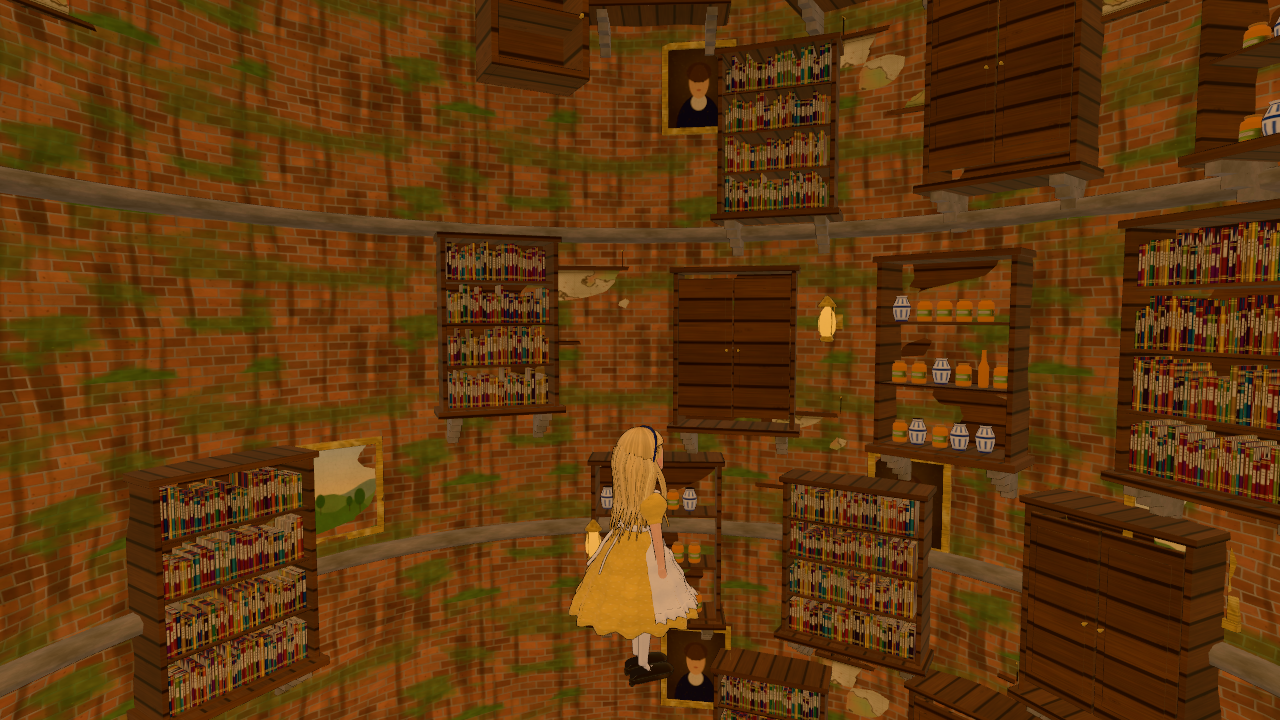
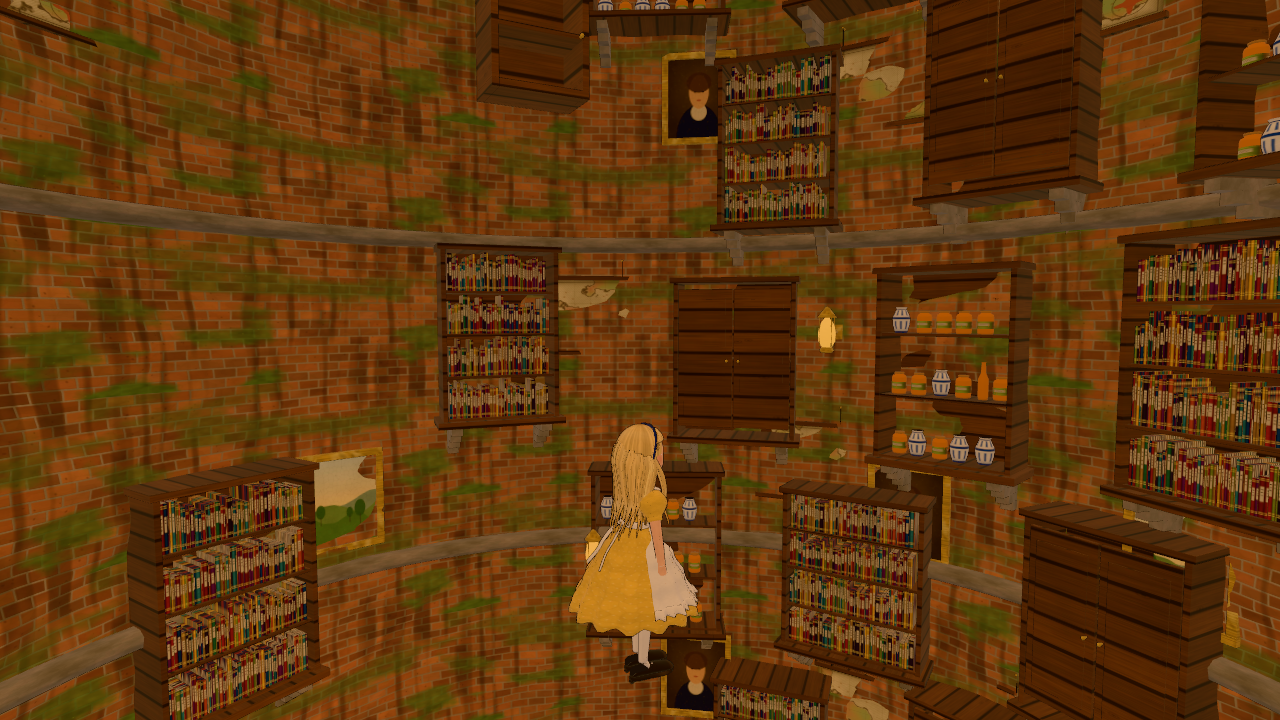
chore(gate): refresh gate captures and e2e screenshots from the current painted assets
29/29 e2e (incl. controls) pass after the boot-order fix.

Claude-Session: https://claude.ai/code/session_01TqRioLNkom3mPbzJ2zjeAX

diff --git a/docs/devlog/gate/REPORT.md b/docs/devlog/gate/REPORT.md
@@ -1,52 +1,65 @@
 # Quality gate report
 
-- run: 2026-10-14T18:07:56.390Z  
-- mode: NO-RUN (artefacts only, not valid for stopping)  
-- result: **FAIL** — 14/30 checks
+- run: 2026-10-14T18:36:32.353Z  
+- mode: FULL  
+- result: **FAIL** — 28/38 checks
+
+## suite
+
+| | check | detail |
+|---|---|---|
+| ✅ | `typecheck` | 3s |
+| ✅ | `lint` | 5s |
+| ✅ | `unit` | 1s |
+| ✅ | `build` | 7s |
+| ❌ | `controls-e2e` | exit 1 after 129s — see docs/devlog/gate/logs/controls-e2e.log ::   1 failed \|     [chromium] › tests/e2e/controls.spec.ts:145:3 › Controls: camera orbit, zoom, camera-relative movement, animation › CTRL-07: the legs really alternate while walking (feet are not skating in place)  \|   7 passed (2.1m) |
+| ✅ | `scene-capture` | 117s |
+| ❌ | `full-e2e` | exit 1 after 314s — see docs/devlog/gate/logs/full-e2e.log ::     [chromium] › tests/e2e/tier3_combinations.spec.ts:5:3 › Tier 3: Cross-Feature Combinations & Puzzle Invariants (INV-01 to INV-07) › INV-01: Curtain cannot be opened before keyTriesOnDoors >= 2  \|     [chromium] › tests/e2e/tier3_combinations.spec.ts:96:3 › Tier 3: Cross-Feature Combinations & Pu |
 
 ## integrity
 
 | | check | detail |
 |---|---|---|
-| ✅ | `thresholds-floor` | thresholds not committed yet — the first commit will become the permanent floor |
+| ✅ | `thresholds-floor` | no threshold lowered since d7d7c17 |
+| ✅ | `metrics-pin-floor` | pin unchanged |
 | ✅ | `metrics-function` | image-metrics.mjs matches the pinned hash |
 
 ## models
 
 | | check | detail |
 |---|---|---|
-| ✅ | `models:budget` | 19.1 MB of GLB (limit 45 MB) |
-| ✅ | `model:chr_sister` | 44348 tris, 10 painted mats, 4.7 Mpx |
-| ❌ | `model:chr_rabbit` | 0 painted materials < 6; 0.00 Mpx texture < 3.00 |
-| ❌ | `model:chr_dinah_dream` | 0 painted materials < 2; 0.00 Mpx texture < 1.50 |
+| ✅ | `models:budget` | 21.6 MB of GLB (limit 45 MB) |
+| ✅ | `model:chr_sister` | 56204 tris, 11 painted mats, 5.7 Mpx |
+| ✅ | `model:chr_rabbit` | 30596 tris, 8 painted mats, 3.3 Mpx |
+| ✅ | `model:chr_dinah_dream` | 21844 tris, 3 painted mats, 1.6 Mpx |
 | ✅ | `model:ch1_s1_bank` | 60218 tris, 7 painted mats, 2.6 Mpx |
 | ✅ | `model:ch1_s3_well` | 69046 tris, 11 painted mats, 5.3 Mpx |
 | ✅ | `model:ch1_s4_passage` | 37232 tris, 8 painted mats, 5.1 Mpx |
 | ✅ | `model:ch1_s5_hall` | 85410 tris, 26 painted mats, 13.0 Mpx |
-| ❌ | `model:prop_bottle_drinkme` | 0 painted materials < 1; 0.00 Mpx texture < 0.25 |
-| ❌ | `model:prop_cake_eatme` | 0 painted materials < 1; 0.00 Mpx texture < 0.25 |
-| ❌ | `model:prop_jar_marmalade` | 0 painted materials < 1; 0.00 Mpx texture < 0.25 |
-| ❌ | `model:prop_key_gold` | 0 painted materials < 1; 0.00 Mpx texture < 0.25 |
-| ❌ | `model:prop_watch` | 0 painted materials < 1; 0.00 Mpx texture < 0.25 |
-| ❌ | `model:prop_box_glass` | 48 tris < 300; 0 painted materials < 1; 0.00 Mpx texture < 0.25 |
+| ✅ | `model:prop_bottle_drinkme` | 1704 tris, 3 painted mats, 0.5 Mpx |
+| ✅ | `model:prop_cake_eatme` | 2704 tris, 2 painted mats, 0.3 Mpx |
+| ✅ | `model:prop_jar_marmalade` | 1708 tris, 2 painted mats, 0.6 Mpx |
+| ✅ | `model:prop_key_gold` | 3992 tris, 1 painted mats, 0.3 Mpx |
+| ✅ | `model:prop_watch` | 4288 tris, 2 painted mats, 0.5 Mpx |
+| ✅ | `model:prop_box_glass` | 788 tris, 1 painted mats, 0.3 Mpx |
 
 ## visual
 
 | | check | detail |
 |---|---|---|
-| ✅ | `capture-fresh` | captured 2026-10-14T18:07:10.011Z |
-| ❌ | `S1_BANK` | detail 7.777 (≥8), palette 0.526 (≥0.6), contrast 0.195 (≥0.2) |
-| ❌ | `S1_BANK_orbit` | palette 0.52 (≥0.6) |
-| ❌ | `S3_FALL` | detail 5.349 (≥8), palette 0.217 (≥0.6), hueEntropy 1.708 (≥2), contrast 0.084 (≥0.2), saturation 0.87 (≤0.8) |
-| ❌ | `S4_PASSAGE` | detail 3.034 (≥8), palette 0.178 (≥0.6), hueEntropy 1.642 (≥2), contrast 0.113 (≥0.2), dominant3 0.341 (≤0.3) |
-| ❌ | `S5_HALL` | palette 0.39 (≥0.6), contrast 0.176 (≥0.2), drawCalls 174 (≤150) |
-| ❌ | `S6_SMALL` | detail 6.325 (≥8), palette 0.362 (≥0.6), contrast 0.158 (≥0.2) |
+| ✅ | `capture-fresh` | captured 2026-10-14T18:30:44.456Z |
+| ❌ | `S1_BANK` | detail 7.795 (≥8), palette 0.532 (≥0.6), contrast 0.195 (≥0.2) |
+| ❌ | `S1_BANK_orbit` | palette 0.538 (≥0.6) |
+| ❌ | `S3_FALL` | detail 5.226 (≥8), palette 0.226 (≥0.6), hueEntropy 1.69 (≥2), contrast 0.083 (≥0.2), saturation 0.866 (≤0.8) |
+| ❌ | `S4_PASSAGE` | detail 3.033 (≥8), palette 0.176 (≥0.6), hueEntropy 1.642 (≥2), contrast 0.113 (≥0.2), dominant3 0.341 (≤0.3) |
+| ❌ | `S5_HALL` | palette 0.383 (≥0.6), contrast 0.177 (≥0.2) |
+| ❌ | `S6_SMALL` | detail 6.322 (≥8), palette 0.36 (≥0.6), contrast 0.158 (≥0.2) |
 | ✅ | `alice:front` | detail 16.368 palette 0.205 hueEntropy 1.701 contrast 0.211 hardEdge 0.174 dominant3 0.5207 |
 | ✅ | `alice:threeQuarter` | detail 17.297 palette 0.199 hueEntropy 1.623 contrast 0.221 hardEdge 0.1803 dominant3 0.5014 |
 | ✅ | `alice:face` | detail 8.602 palette 0.25 hueEntropy 1.732 contrast 0.236 hardEdge 0.1227 dominant3 0.3958 |
 | ✅ | `alice:walk` | detail 18.748 palette 0.2 hueEntropy 1.52 contrast 0.232 hardEdge 0.1935 dominant3 0.43 |
-| ❌ | `npc:sister` | detail 8.435 (≥12), contrast 0.168 (≥0.2), dominant3 0.6363 (≤0.6) |
-| ✅ | `npc:rabbit` | detail 13.478 palette 0.212 hueEntropy 1.902 contrast 0.22 hardEdge 0.1498 dominant3 0.4334 |
+| ❌ | `npc:sister` | detail 8.839 (≥12), contrast 0.164 (≥0.2) |
+| ✅ | `npc:rabbit` | detail 21.231 palette 0.228 hueEntropy 2.337 contrast 0.214 hardEdge 0.1985 dominant3 0.2856 |
 
 ## human
 
